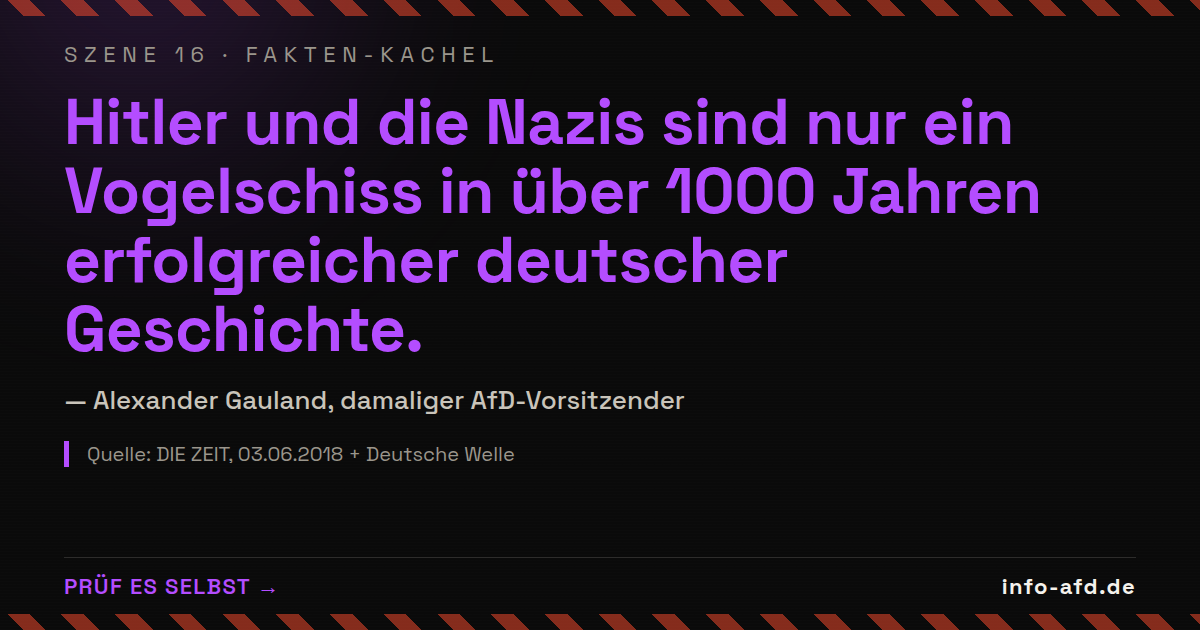
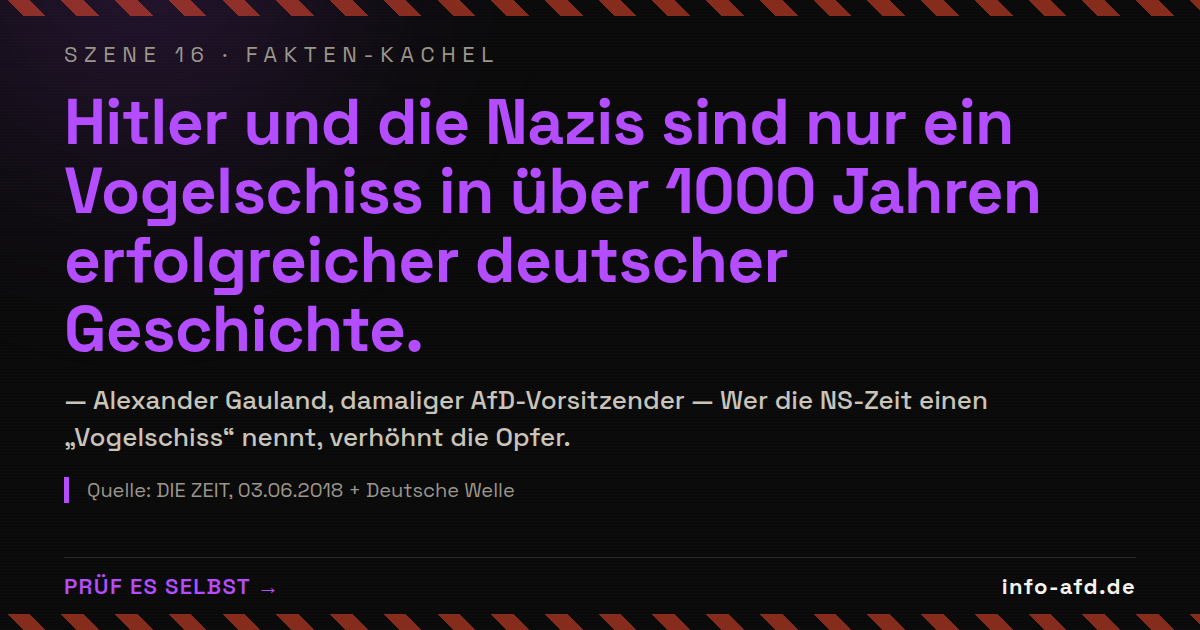
Runde 3: Verdict-Block unter AfD-Zitaten (gross, sichtbar) + Doc-Titel-Fix

Changed region(s): [[0.0308, 0.6635, 0.4625, 0.8143], [0.5858, 0.6032, 0.8325, 0.6635]]

diff --git a/site/src/lib/scene-tile.js b/site/src/lib/scene-tile.js
@@ -33,8 +33,11 @@ export function sceneTileContent(scene) {
         source: srcLabel(scene),
       };
     }
-    case 'quote':
-      return { big: clean(scene.quote), label: `— ${clean(scene.author)}`, source: srcLabel(scene) };
+    case 'quote': {
+      // Runde 3: Verdict in die Kachel — aber nur erster Satz (Label max-height clippt sonst)
+      const verdictLine = clean(scene.verdict ?? '').split(/(?<=\.)\s/)[0] ?? '';
+      return { big: clean(scene.quote), label: `— ${clean(scene.author)}${verdictLine ? ` — ${verdictLine}` : ''}`, source: srcLabel(scene) };
+    }
     case 'reveal':
       return { big: clean(scene.headline || scene.teaser), label: clean(scene.body || scene.teaser), source: srcLabel(scene) };
     case 'contrast': {

diff --git a/site/src/lib/scene-text.js b/site/src/lib/scene-text.js
@@ -14,7 +14,7 @@ export function sceneShareText(scene, chapterTitle) {
     case 'quiz':
       return clean(`Quiz: ${scene.question}`);
     case 'quote':
-      return clean(`„${scene.quote}" — ${scene.author}`);
+      return clean(`„${scene.quote}“ — ${scene.author}${scene.verdict ? ` — ${scene.verdict}` : ''}`);
     case 'reveal':
       return clean(scene.headline || scene.teaser || scene.body);
     case 'contrast':
